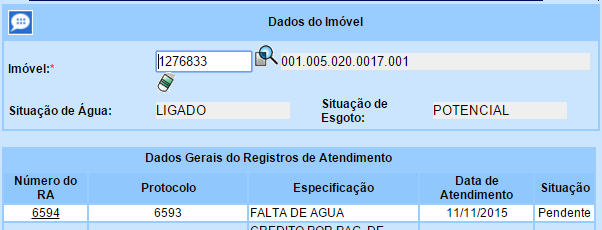
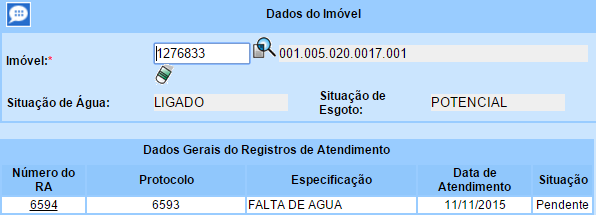
Complementando os resultados esperados

Changed region(s): [[0.0, 0.0, 1.0, 0.586], [0.0, 0.614, 0.9966, 1.0], [0.2416, 0.4186, 0.4832, 0.5023]]

diff --git a/editaveis/resultado/descricao.tex b/editaveis/resultado/descricao.tex
@@ -27,7 +27,8 @@ Este terminal é responsável em executar ambos os sistemas envolvidos, no entan
 O terminal possui uma conexão de rede local ativa, para que seja atribuído uma faixa de IP ao sistema operacional hospedeiro e ao convidado.
 Visando garantir o correto funcionamento e a padronização do ambiente de teste foram criados testes de integração reproduzindo uma chamada telefônica programaticamente simulando um ambiente real, para tanto foi necessário utilizar os seguintes recursos o framework JUnit na construção dos testes e o recurso nativo do Asterisk chamado \textit{Local Channel} que permite criar um canal de comunicação com um contexto e extensão específica dentro do sistema Asterisk, ou seja permite acessar diretamente o ponto de integração entre os sistemas.
 
-Foram criados contextos específicos para teste no software Asterisk, conforme visto abaixo;
+Foram criados contextos específicos para teste no software Asterisk, replicando os mesmos contextos utilizados no fluxo da URA visando 
+isolar o comportamento que ocorre no momento da integração sem a necessidade de redirecionamentos entre serviços ou ramais, conforme visto abaixo;
 
 \begin{figure}[H]
 	\centering
@@ -37,14 +38,16 @@ Foram criados contextos específicos para teste no software Asterisk, conforme v
 	\legend {\fontsize{10}{12}\selectfont {Fonte: Autoria Própria}.}	
 \end{figure}
 
-
+A distribuição Disc-OS por padrão possui uma configuração de firewall bastante restritiva por questões de segurança, na execução dos testes será preciso obter dados sobre os eventos que ocorrem internamente na ferramenta Asterisk, ou seja os parâmetros de sinalização que indica a ocorrência de falhas, para que não ocorra rejeição nas solicitações realizadas ao Asterisk, será para fins de testes desabilitada as regras do firewall, utilizando o seguinte comando \textit{/etc/init.d/iptables stop}.
 
 \subsection{Elaboração dos Cenários de Teste}
-
-Os cenários de testes representam as possíveis situações cadastrais fictícias e comportamentais vinculadas a um cliente, essencial para realizar um atendimento via sistema. Foram propostos 3 cenários de teste para cada serviço automatizado, visando assegurar o correto comportamento da solução. Abaixo estão descritos os cenários conforme cada serviços proposto:
+Nesta fase foram elaborados possíveis cenários de teste para os três serviços automatizados, são respectivamente Obter 2ª via de conta, Informar Falta de Água e Solicitar Restabelecimento da Ligação de Água. Cada serviço proposto possui um objetivo específico sempre vinculado a um imóvel e/ou cliente.
+Os cenários de testes representam as possíveis situações cadastrais fictícias e comportamentais vinculadas a um cliente, essencial para realizar um atendimento via sistema. Foram propostos 3 cenários de teste para cada serviço citado acima, visando assegurar o correto comportamento da solução. Abaixo estão descritos os cenários conforme cada serviços proposto:
 
 \subsubsection{Obter 2ª Via de Conta}
-Abaixo serão descritos os casos de testes previstos para o serviço Obter 2ª Via de Conta.
+Este serviço tem como objetivo checar se há alguma conta pendente referente ao imóvel informado, caso haja pendência o serviço deve submeter a conta pendente via e-mail para o cliente do imóvel. 
+
+Abaixo serão descritos os casos de testes previstos para o serviço Obter 2ª Via de Conta, foi cadastrado o mesmo endereço de e-mail para os 3 cenários.
 \begin{flushleft}
 	\begin{description}
 		\item \textbf{CENÁRIO 1}: Cliente devidamente cadastrado no Sistema, atualmente usuário de um imóvel que possui ativo a Ligação de Água e Esgoto, com uma conta em atraso. O Cliente deseja obter a conta em aberto, conforme demostrado na figura \ref{figura:2ViaCenario1}.
@@ -58,7 +61,7 @@ Abaixo serão descritos os casos de testes previstos para o serviço Obter 2ª V
 	\end{description}
 	
 	\begin{description}
-		\item \textbf{CENÁRIO 2}: Cliente devidamente cadastrado no Sistema, atualmente sendo usuário de um imóvel que possui a Ligação de Água cortada por falta de pagamento, atualmente com três contas em aberto. O Cliente deseja obter todas as contas em aberto, conforme demostrado na figura \ref{figura:2ViaCenario2}.
+		\item \textbf{CENÁRIO 2}: Cliente devidamente cadastrado no Sistema, atualmente sendo usuário de um imóvel que possui a Ligação de Água cortada por falta de pagamento, atualmente com três contas em aberto. O Cliente deseja obter a conta de maior atraso, conforme demostrado na figura \ref{figura:2ViaCenario2}.
 		\begin{figure}[H]
 			\centering
 			\caption{Obter 2ª via - Cenário de Teste 2}
@@ -83,6 +86,7 @@ Abaixo serão descritos os casos de testes previstos para o serviço Obter 2ª V
 
 
 \subsubsection{Informar Falta de Água}
+Este serviço tem como objetivo formalizar junto ao sistema GSAN um novo Registro de Atendimento referente a Falta de Água para o imóvel informado.
 Abaixo serão descritos os casos de testes previstos para o serviço Informar Falta de Água.
 \begin{flushleft}
 	\begin{description}
@@ -104,8 +108,7 @@ Abaixo serão descritos os casos de testes previstos para o serviço Informar Fa
 			\label{figura:informarFaltaAguaCenario2}
 			\includegraphics{figuras/cenarios/informar_falta_agua/cenario_2.PNG}
 			\legend {\fontsize{10}{12}\selectfont {Fonte: Autoria Própria}.}	
-		\end{figure}
-		
+		\end{figure}		
 	\end{description}
 	
 	\begin{description}
@@ -121,6 +124,7 @@ Abaixo serão descritos os casos de testes previstos para o serviço Informar Fa
 \end{flushleft}	
 
 \subsubsection{Solicitar Restabelecimento da Ligação de Água}
+Este serviço tem como objetivo formalizar junto ao sistema GSAN um novo Registro de Atendimento referente ao Restabelecimento da Ligação de Água para um imóvel informado.
 Abaixo serão descritos os casos de testes previstos para o serviço Solicitar Restabelecimento da Ligação de Água.
 \begin{flushleft}
 	\begin{description}
@@ -160,15 +164,117 @@ Abaixo serão descritos os casos de testes previstos para o serviço Solicitar R
 
 
 \subsection{Execução dos Cenários de Teste}
-A execução dos cenários propostos será feita utilizando os testes automatizados citados na seção anterior, cada resultado será coletado e apresentado. 
-
-TODO: ATUALIZAR COM AS IMAGENS!!
 
 
-\subsection{Análise dos resultados}
-O cenário deve ser totalmente atendimento para que se tenha sucesso no atendimento e posteriormente a situação de \textbf{ATENDINDO}, caso contrário será obtido à situação de \textbf{NÃO ATENDINDO}, caso o atendimento não seja concluído com sucesso o cenário deve conter uma observação, descrevendo o motivo ao qual levou a tal situação.
-Abaixo serão descritos os Cenários dos serviços propostos:
+A execução dos cenários propostos foi realizado utilizando o \textit{framework} de teste JUnit citados na seção anterior, segue abaixo resultado; 
 
+\subsubsection{Obter 2ª Via de Conta}
+ 
+ Após a execução dos cenários de teste implementados para este serviço foi possível notar que 2/3 Cenários concluíram com sucesso e apenas 1/3 falhou em sua execução, conforme demostrado na figura \ref{figura:segundaViaJUnit}.		
+	\begin{figure}[H]
+		\centering
+		\caption{Obter 2ª Via de Conta - Detalhes execução dos testes}
+		\label{figura:segundaViaJUnit}
+		\includegraphics{figuras/cenarios/segunda_via/junit_result.PNG}
+		\legend {\fontsize{10}{12}\selectfont {Fonte: Autoria Própria}.}	
+	\end{figure}
+	
 
+Em cada cenário de teste o sistema deve enviar um e-mail contendo a 2ª via da conta solicitada, a figura \ref{figura:emailRecebido} ilustra a caixa de entrada do E-mail configurado para cada cliente.
+	\begin{figure}[H]
+		\centering
+		\caption{Obter 2ª Via de Conta - E-mail recebido pelo cliente}
+		\label{figura:emailRecebido}
+		\includegraphics{figuras/cenarios/segunda_via/envio_email.PNG}
+		\legend {\fontsize{10}{12}\selectfont {Fonte: Autoria Própria}.}	
+	\end{figure}
+
+	
+\subsubsection{Informar Falta de Água}
+
+ Após a execução dos cenários de teste implementados para este serviço foi possível identificar que todos os 3 cenários previsto executaram com sucesso, conforme demostrado na figura \ref{figura:informarFaltaJUnit}.	
+
+	\begin{figure}[H]
+		\centering
+		\caption{Informar Falta de Água - Detalhes execução dos testes}
+		\label{figura:informarFaltaJUnit}
+		\includegraphics{figuras/cenarios/informar_falta_agua/junit_result.PNG}
+		\legend {\fontsize{10}{12}\selectfont {Fonte: Autoria Própria}.}	
+	\end{figure}
+
+Ao consulta o sistema GSAN, visando identificar se houve a ocorrência da formalização dos Registros de Atendimentos, o primeiro cenário cujo o identificar 1276833 representa a matrícula do imóvel, houve a geração do Registro de Atendimento de número 6594, conforme demonstrado na figura \ref{figura:informarFaltaRA1}.
+
+	\begin{figure}[H]
+		\centering
+		\caption{Informar Falta de Água - RA gerado para o Cenário 1}
+		\label{figura:informarFaltaRA1}
+		\includegraphics{figuras/cenarios/informar_falta_agua/resultado_1.PNG}
+		\legend {\fontsize{10}{12}\selectfont {Fonte: Autoria Própria}.}	
+	\end{figure}
+	
+Para o segundo cenário, cujo o identificador 13702840 representa a matrícula do imóvel, houve a geração do Registro de Atendimento de número 6598, conforme exposto na figura \ref{figura:informarFaltaRA2}.	
+		
+	\begin{figure}[H]
+		\centering
+		\caption{Informar Falta de Água - RA gerado para o Cenário 2}
+		\label{figura:informarFaltaRA2}
+		\includegraphics{figuras/cenarios/informar_falta_agua/resultado_2.PNG}
+		\legend {\fontsize{10}{12}\selectfont {Fonte: Autoria Própria}.}	
+	\end{figure}
+
+Para o terceiro cenário, cujo o identificador 13704001 representa a matrícula do imóvel, também houve a geração do Registro de Atendimento de número 6596, conforme exposto na figura \ref{figura:informarFaltaRA3}.	
+
+\begin{figure}[H]
+	\centering
+	\caption{Informar Falta de Água - RA gerado para o Cenário 3}
+	\label{figura:informarFaltaRA3}
+	\includegraphics{figuras/cenarios/informar_falta_agua/resultado_3.PNG}
+	\legend {\fontsize{10}{12}\selectfont {Fonte: Autoria Própria}.}	
+\end{figure}	
+
+		
+\subsubsection{Solicitar Restabelecimento da Ligação de Água}
+
+ Após a execução dos cenários de teste implementados para este serviço foi possível identificar que todos os 3 cenários previsto executaram com sucesso, conforme demostrado na figura \ref{figura:restabelecimentoJUnit}.	
+
+\begin{figure}[H]
+	\centering
+	\caption{Restabelecimento da Ligação de Água - Detalhes execução dos testes}
+	\label{figura:restabelecimentoJUnit}
+	\includegraphics{figuras/cenarios/restabelecimento/junit_result.PNG}
+	\legend {\fontsize{10}{12}\selectfont {Fonte: Autoria Própria}.}	
+\end{figure}
+
+Ao consulta o sistema GSAN, visando identificar se houve a ocorrência da formalização dos Registros de Atendimentos, o primeiro cenário cujo o identificar 1239723 representa a matrícula do imóvel, houve a geração do Registro de Atendimento de número 6604, conforme demonstrado na figura \ref{figura:restabelecimentoRA1}.
+
+\begin{figure}[H]
+	\centering
+	\caption{Restabelecimento da Ligação de Água - RA gerado para o Cenário 1}
+	\label{figura:restabelecimentoRA1}
+	\includegraphics{figuras/cenarios/restabelecimento/resultado_1.PNG}
+	\legend {\fontsize{10}{12}\selectfont {Fonte: Autoria Própria}.}	
+\end{figure}
+
+Para o segundo cenário, cujo o identificador 80166 representa a matrícula do imóvel, houve a geração do Registro de Atendimento de número 6608, conforme exposto na figura \ref{figura:restabelecimentoRA2}.	
+
+\begin{figure}[H]
+	\centering
+	\caption{Restabelecimento da Ligação de Água - RA gerado para o Cenário 2}
+	\label{figura:restabelecimentoRA2}
+	\includegraphics{figuras/cenarios/informar_falta_agua/resultado_2.PNG}
+	\legend {\fontsize{10}{12}\selectfont {Fonte: Autoria Própria}.}	
+\end{figure}
+	
+Para o terceiro cenário, cujo o identificador 13702572 representa a matrícula do imóvel, mesmo o cliente em situação de inadimplência houve a geração do Registro de Atendimento de número 6606, conforme exposto na figura \ref{figura:restabelecimentoRA3}.	
+
+\begin{figure}[H]
+	\centering
+	\caption{Restabelecimento da Ligação de Água - RA gerado para o Cenário 3}
+	\label{figura:restabelecimentoRA3}
+	\includegraphics{figuras/cenarios/informar_falta_agua/resultado_3.PNG}
+	\legend {\fontsize{10}{12}\selectfont {Fonte: Autoria Própria}.}	
+\end{figure}	
+
+Os detalhes sobre cada Registro de Atendimento mencionado acima podem ser consultados nos anexos deste trabalho.
 
 

diff --git a/editaveis/resultado/avaliacao.tex b/editaveis/resultado/avaliacao.tex
@@ -13,21 +13,19 @@ Após a apuração dos cenários descritos acima, chegamos aos seguintes resulta
 		\hline
 		\textbf{Cenários}  	& \textbf{Situação} & \textbf{Percentual (\%)}  \\
 		\hline		
-		Cenário 1			& Atendido 		& (+) 25\% 	\\
+		Cenário 1			& SUCESSO 		& (+) 33,33\% 	\\
 		\hline
-		Cenário 2 			& Atendido		& (+) 25\% 	\\
+		Cenário 2 			& SUCESSO		& (+) 33,33\% 	\\
 		\hline
-		Cenário 3 			& Atendido 		& (+) 25\%	\\
-		\hline
-		Cenário 4			& Não Atendido	& (-) 25\% 	\\
+		Cenário 3 			& FALHA 		& (+) 33,33\%	\\
 		\hline		
-		\multicolumn{2}{|c|}{\textbf{TOTAL}}	& 75\% 	\\
+		\multicolumn{2}{|c|}{\textbf{TOTAL}}	& 66\% 	\\
 		\hline				
 	\end{tabular}
 	\legend{\fontsize{10}{12}\selectfont {Fonte: Autoria Própria}.}
 \end{table}
 
-O serviço de obter 2ª via de conta obteve o percentual de 75\% de sucesso nos cenários de testes aplicados sobre o produto gerado, conforme demostra a tabela \ref{tabela:avaliacaoSegundaViaConta}. 
+O serviço de obter 2ª via de conta obteve o percentual de 66\% de sucesso nos cenários de testes aplicados sobre o produto gerado, conforme demostra a tabela \ref{tabela:avaliacaoSegundaViaConta}. 
 
 
 \begin{table}[H]
@@ -41,21 +39,19 @@ O serviço de obter 2ª via de conta obteve o percentual de 75\% de sucesso nos 
 		\hline
 		\textbf{Cenários}  	& \textbf{Situação} & \textbf{Percentual (\%)}  \\
 		\hline		
-		Cenário 1			& Atendido 		& (+) 25\% 	\\
+		Cenário 1			& SUCESSO 		& (+) 33,33\% 	\\
 		\hline
-		Cenário 2 			& Atendido		& (+) 25\% 	\\
+		Cenário 2 			& SUCESSO		& (+) 33,33\% 	\\
 		\hline
-		Cenário 3 			& Atendido 		& (+) 25\%	\\
-		\hline
-		Cenário 4			& Não Atendido	& (-) 25\% 	\\
+		Cenário 3 			& SUCESSO 		& (+) 33,33\%	\\
 		\hline		
-		\multicolumn{2}{|c|}{\textbf{TOTAL}}	& 75\% 	\\
+		\multicolumn{2}{|c|}{\textbf{TOTAL}}	& 100\% 	\\
 		\hline				
 	\end{tabular}
 	\legend{\fontsize{10}{12}\selectfont {Fonte: Autoria Própria}.}
 \end{table}
 
-O serviço de Informar Falta de Água obteve o percentual de 75\% de sucesso nos cenários de testes aplicados sobre o produto gerado, conforme demostra a tabela \ref{tabela:avaliacaoInformarFaltaAgua}.
+O serviço de Informar Falta de Água obteve o percentual de 100\% de sucesso nos cenários de testes aplicados sobre o produto gerado, conforme demostra a tabela \ref{tabela:avaliacaoInformarFaltaAgua}.
 
 
 \begin{table}[H]
@@ -69,34 +65,34 @@ O serviço de Informar Falta de Água obteve o percentual de 75\% de sucesso nos
 		\hline
 		\textbf{Cenários}  	& \textbf{Situação} & \textbf{Percentual (\%)}  \\
 		\hline		
-		Cenário 1			& Atendido 		& (+) 25\% 	\\
+		Cenário 1			& SUCESSO 		& (+) 33,33\% 	\\
 		\hline
-		Cenário 2 			& Atendido		& (+) 25\% 	\\
+		Cenário 2 			& SUCESSO		& (+) 33,33\% 	\\
 		\hline
-		Cenário 3 			& Não Atendido 	& (-) 25\%	\\
-		\hline
-		Cenário 4			& Atendido		& (+) 25\% 	\\
+		Cenário 3 			& SUCESSO 		& (+) 33,33\%	\\
 		\hline		
-		\multicolumn{2}{|c|}{\textbf{TOTAL}}	& 75\% 	\\
+		\multicolumn{2}{|c|}{\textbf{TOTAL}}	& 100\% 	\\
 		\hline				
 	\end{tabular}
 	\legend{\fontsize{10}{12}\selectfont {Fonte: Autoria Própria}.}
 \end{table}
 
-O serviço de Solicitar Restabelecimento da Ligação obteve o percentual de 75\% de sucesso nos cenários de testes aplicados sobre o produto gerado, conforme demostra a tabela \ref{tabela:avaliacaoRestabelerLigacaoAgua}.
+O serviço de Solicitar Restabelecimento da Ligação obteve o percentual de 100\% de sucesso nos cenários de testes aplicados sobre o produto gerado, conforme demostra a tabela \ref{tabela:avaliacaoRestabelerLigacaoAgua}.
 
 
 
 \section{Apresentação dos Resultados Obtidos}
 
-Levando em consideração os resultados obtidos através da aplicação de todos os cenários de testes descritos acima sob os serviços desenvolvidos neste trabalho, observando os percentuais atingidos com base na média descrita dos principais Serviços do Atendimento ao Público, notamos que a solução proposta é capaz de reduzir em até 20,46\%, dos registros de atendimentos diários, conforme visto abaixo na figura \ref{figura:eficienciaServicos}:	
+Levando em consideração os resultados obtidos através da aplicação de todos os cenários de testes descritos acima sob os serviços desenvolvidos neste trabalho,
+é possível afirmar que a utilização da uma URA para realizar o atendimento de primeiro nível tem potencial para reduzir parte dos atendimentos destinados à solicitação de 2ª via de conta, falta de água e restabelecimento da ligação, definindo na padronização dos atendimentos e contribuindo para a redução dos custos.
+ 
+ %observando os percentuais atingidos com base na média descrita dos principais %Serviços do Atendimento ao Público, notamos que a solução proposta é capaz de %reduzir em até 20,46\%, dos registros de atendimentos diários, conforme visto %abaixo na figura \ref{figura:eficienciaServicos}:	
 
-
-\begin{figure}[!htb]
-	\centering
-	\caption{Gráfico de avaliação dos serviços automatizados}
-	\label{figura:eficienciaServicos}	
-	\includegraphics{figuras/eficiencia_servicos.png}
-	\legend {\fontsize{10}{12}\selectfont {Fonte: Autoria Própria}.}
-\end{figure}
+%\begin{figure}[!htb]
+%	\centering
+%	\caption{Gráfico de avaliação dos serviços automatizados}
+%	\label{figura:eficienciaServicos}	
+%	\includegraphics{figuras/eficiencia_servicos.png}
+%	\legend {\fontsize{10}{12}\selectfont {Fonte: Autoria Própria}.}
+%\end{figure}
 
